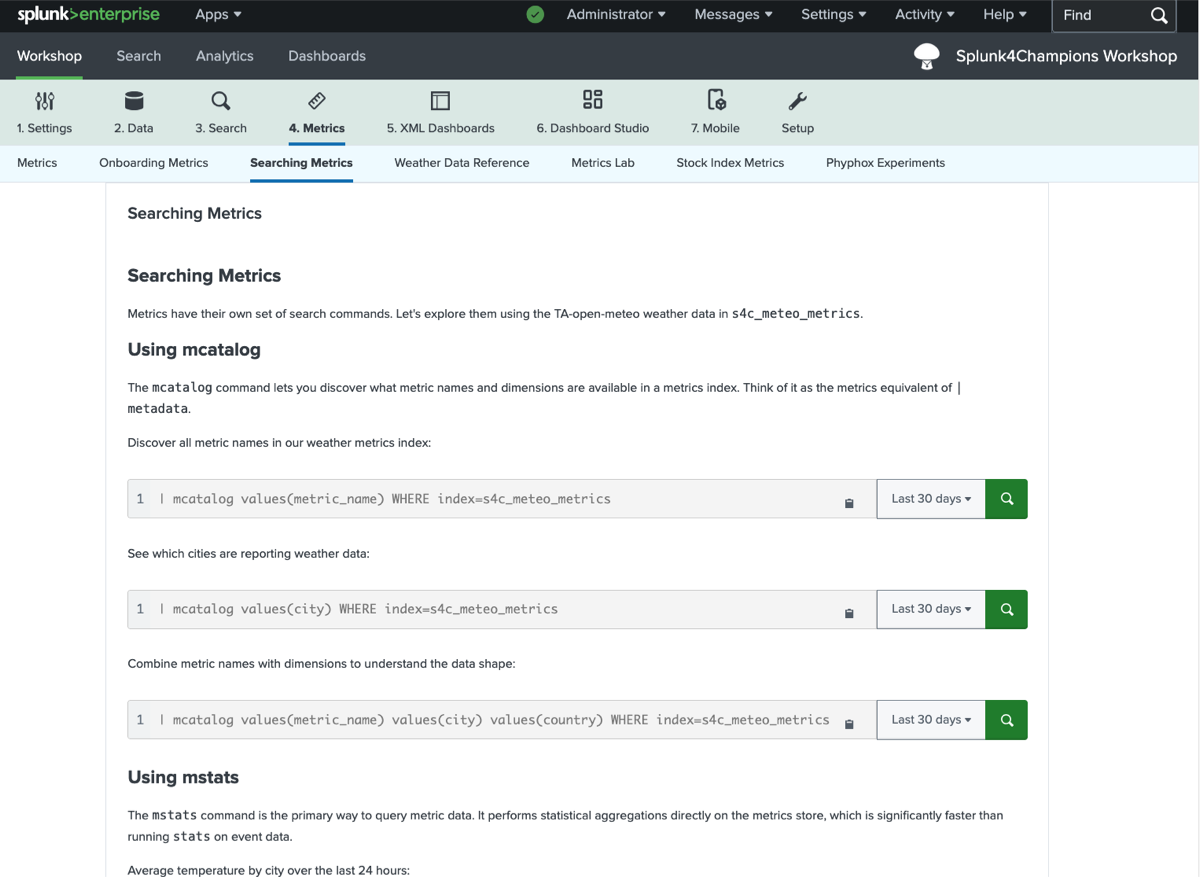
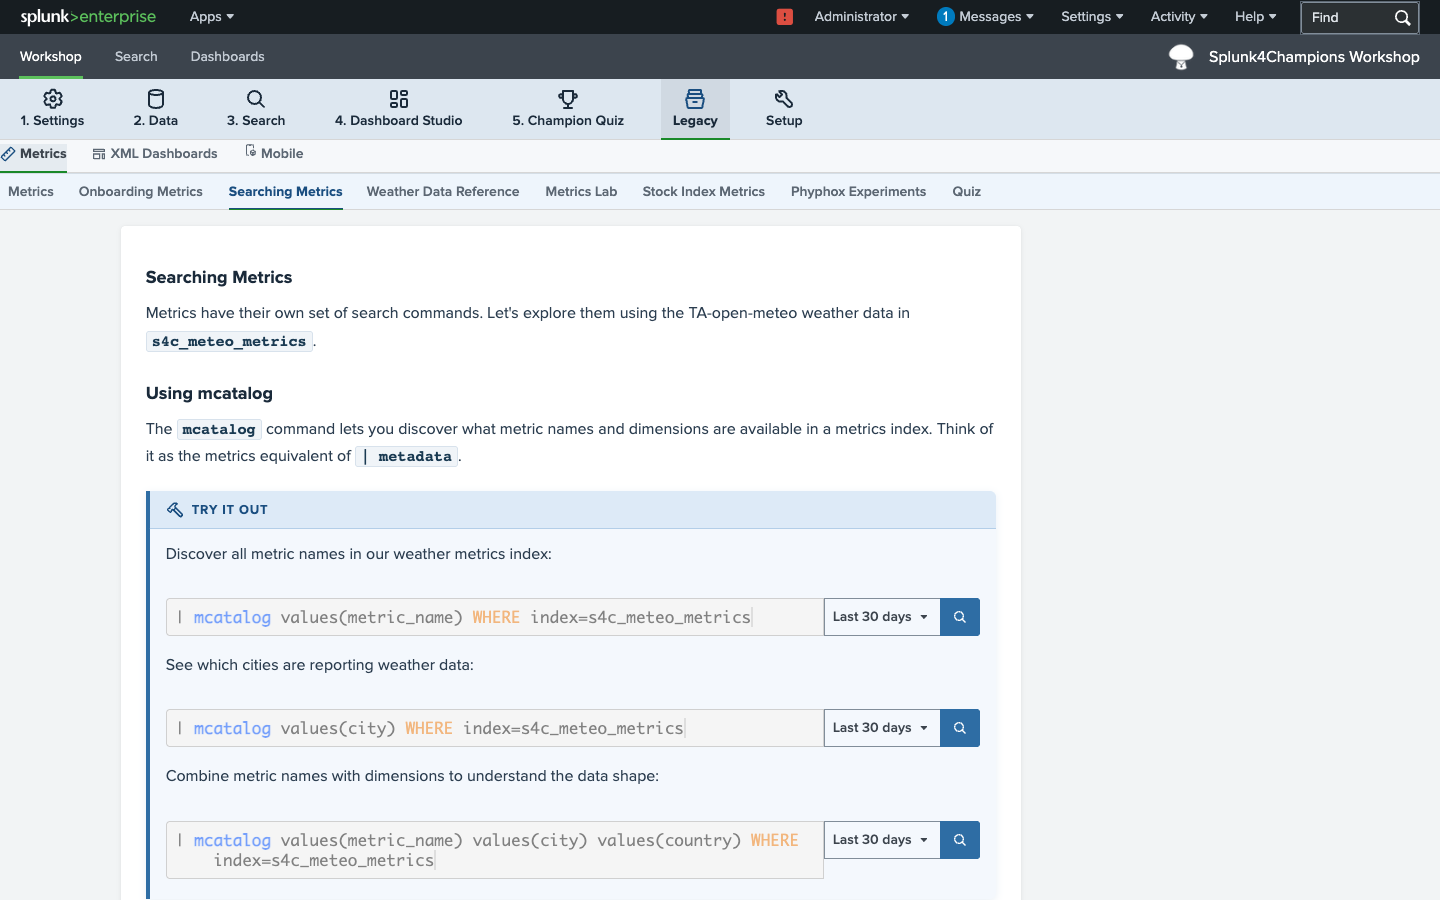
docs: current README screenshots and 2.17.0 install links
- Recaptured README screenshots from Splunk Enterprise 10.6.0.5 (app 2.17.0)
- Added Search Modes and When a field exists; removed Stock Index SPL and Canvas viz images
- Switched image links to relative screenshots/ paths so GitHub renders them
- Install sections and development readme point to v2.17.0

diff --git a/README.md b/README.md
@@ -144,14 +144,14 @@ The final chapter is a Kahoot-style knowledge check with timed questions, instan
 Download the latest release from the [Releases page](https://github.com/bautt/splunk4champions2/releases/) and install as a standard Splunk app.
 
 - Not intended for production systems — no warranty
-- Current app version: **2.17.0** (this tree). Newest tagged download: [v2.16.0](https://github.com/bautt/splunk4champions2/releases/tag/v2.16.0), `splunk4champions2-2.16.0.tar.gz`. Package this tree with `make package` to install 2.17.0.
+- Current app version: **2.17.0**. Download [v2.17.0](https://github.com/bautt/splunk4champions2/releases/tag/v2.17.0) and install `splunk4champions2-2.17.0.tar.gz`.
 
 In Splunk Web, open **Apps → Manage Apps → Install app from file**, select the
 downloaded archive, and follow the prompts. Restart Splunk if prompted. Open the
 workshop and check **Setup → Health Check** before running the labs.
 
 This release is for **Splunk Enterprise only**, not Splunk Cloud. It was
-smoke-tested locally on Splunk Enterprise 10.6.0.5; older Splunk versions were
+checked locally on Splunk Enterprise 10.6.0.5; older Splunk versions were
 not validated with the UI upgrade. The custom visualization exercise requires
 Splunk Enterprise 10.4+.
 
@@ -251,37 +251,40 @@ For Splunk Cloud, create HEC tokens through the Cloud-supported admin flow, such
 #### Setup — Health Check
 Verify index status, event counts, and date ranges. Shows Splunk and app version at a glance.
 
-![Health Check](https://github.com/bautt/splunk4champions2/blob/main/screenshots/ch0_setup_health_check.png)
+![Health Check](screenshots/ch0_setup_health_check.png)
 
 #### Chapter 1 — Settings: Search Assistant
-![Search Assistant](https://github.com/bautt/splunk4champions2/blob/main/screenshots/ch1_settings_search_assistant.png)
+![Search Assistant](screenshots/ch1_settings_search_assistant.png)
 
-#### Chapter 1 — Settings: Stock Index Search (SPL & tstats)
-![Stock Index SPL](https://github.com/bautt/splunk4champions2/blob/main/screenshots/ch1_settings_stock_index_spl.png)
+#### Chapter 1 — Settings: Search Modes
+![Search Modes](screenshots/ch1_settings_search_modes.png)
 
-#### Chapter 2 — Data: Index and Buckets
-![Data Index Buckets](https://github.com/bautt/splunk4champions2/blob/main/screenshots/ch2_data_index_buckets.png)
+#### Chapter 2 — Data: How is data stored?
+![Data Index Buckets](screenshots/ch2_data_index_buckets.png)
+
+#### Chapter 2 — Data: When a field exists
+![When a field exists](screenshots/ch2_data_when_a_field_exists.png)
 
 #### Chapter 3 — Search: Search Basics
-![Search Basics](https://github.com/bautt/splunk4champions2/blob/main/screenshots/ch3_search_basics.png)
+![Search Basics](screenshots/ch3_search_basics.png)
 
-#### Chapter 3 — Search: Job Inspector
-![Inspector](https://github.com/bautt/splunk4champions2/blob/main/screenshots/ch3_search_inspector.png)
+#### Chapter 3 — Search: Inspector
+![Inspector](screenshots/ch3_search_inspector.png)
 
-#### Chapter 3 — Search: Terms & Segmentation
-![Segmentation](https://github.com/bautt/splunk4champions2/blob/main/screenshots/ch3_search_terms_segmentation.png)
+#### Chapter 3 — Search: Terms
+![Terms](screenshots/ch3_search_terms_segmentation.png)
 
 #### Chapter 3 — Search: tstats
-![tstats](https://github.com/bautt/splunk4champions2/blob/main/screenshots/ch3_search_tstats.png)
+![tstats](screenshots/ch3_search_tstats.png)
 
 #### Legacy — Metrics: Searching Metrics
-![Metrics](https://github.com/bautt/splunk4champions2/blob/main/screenshots/ch4_metrics_searching.png)
+![Metrics](screenshots/ch4_metrics_searching.png)
 
 #### Legacy — XML Dashboards: Base Search
-![XML Dashboards](https://github.com/bautt/splunk4champions2/blob/main/screenshots/ch5_xml_dashboards_base_search.png)
+![XML Dashboards](screenshots/ch5_xml_dashboards_base_search.png)
 
 #### Chapter 4 — Dashboard Studio: Overview
-![Dashboard Studio](https://github.com/bautt/splunk4champions2/blob/main/screenshots/ch6_dashboard_studio_overview.png)
+![Dashboard Studio](screenshots/ch6_dashboard_studio_overview.png)
 
 ---
 

diff --git a/README_development.md b/README_development.md
@@ -1,6 +1,6 @@
 # Development readme:
 
-Current app release: **2.16.0**. Both `[launcher]` and `[id]` versions in
+Current app release: **2.17.0**. Both `[launcher]` and `[id]` versions in
 [`src/package/default/app.conf`](src/package/default/app.conf) define the Splunk
 app version; `src/package.json` identifies the frontend build package separately.
 See [release notes](WHATS_NEW.md) for the UI refresh and workshop changes.
@@ -45,15 +45,14 @@ browser APIs are mocked; no running Splunk instance is required.
 Run `yarn --cwd src build` to validate the production app and MDX content. Before
 release, also check Setup, search copying, and lesson navigation inside Splunk Web.
 
-For 2.16.0, all 13 regression tests and the production build passed. Local browser
-checks on Splunk Enterprise 10.6.0.5 covered Health Check, clipboard success and
-dismissal, time-picker presets, all four colour schemes, Large Room, narrow-screen
-tabs, the embedded Studio bar chart, the quiz landing page, and the Token Kitchen
-dashboard link. This is not a full end-to-end or Cloud certification. The build
-still reports MapLibre dynamic-dependency and bundle-size warnings.
+For 2.17.0, all 13 regression tests and the production build passed. A headless
+browser captured the README screenshots from Splunk Enterprise 10.6.0.5 across
+Setup, Settings, Data, Search, Legacy, and Dashboard Studio without errors. This
+is not a full end-to-end or Cloud certification. The build still reports
+MapLibre dynamic-dependency and bundle-size warnings.
 
-The Enterprise-only [v2.16.0 release](https://github.com/bautt/splunk4champions2/releases/tag/v2.16.0)
-contains `splunk4champions2-2.16.0.tar.gz`; it is not a Splunk Cloud package.
+The Enterprise-only [v2.17.0 release](https://github.com/bautt/splunk4champions2/releases/tag/v2.17.0)
+contains `splunk4champions2-2.17.0.tar.gz`; it is not a Splunk Cloud package.
 The repository's `make package`
 builds `splunk4champions2.tar.gz` and replaces `dist`; avoid it when `dist`
 is a live Splunk app with local configuration. Release archives must exclude

diff --git a/src/package/README.md b/src/package/README.md
@@ -6,7 +6,7 @@
 
 ### What's new in 2.17.0
 
-- Data step **When a field exists**: index-time tokens versus search-time fields on `s4c_www`.
+- Data step **When a field exists**: tsidx terms versus search-time fields on `s4c_www`.
 
 ### What's new in 2.16.0
 
@@ -55,13 +55,13 @@ Download the latest release from https://github.com/bautt/splunk4champions2/rele
 and install it as a standard Splunk app. It is not intended for production systems
 and is provided without warranty.
 
-For version 2.16.0, download `splunk4champions2-2.16.0.tar.gz` from
-https://github.com/bautt/splunk4champions2/releases/tag/v2.16.0. In Splunk Web,
+For version 2.17.0, download `splunk4champions2-2.17.0.tar.gz` from
+https://github.com/bautt/splunk4champions2/releases/tag/v2.17.0. In Splunk Web,
 select **Apps → Manage Apps → Install app from file**, follow the prompts, and
 restart Splunk if prompted. Check **Setup → Health Check** before the workshop.
 
-This release is for **Splunk Enterprise only**, not Splunk Cloud. Version 2.16.0
-was smoke-tested locally on Splunk Enterprise 10.6.0.5; older Splunk releases
+This release is for **Splunk Enterprise only**, not Splunk Cloud. Version 2.17.0
+was checked locally on Splunk Enterprise 10.6.0.5; older Splunk releases
 were not validated with the upgraded UI stack. The custom visualization exercise
 requires Splunk Enterprise 10.4+.
 
